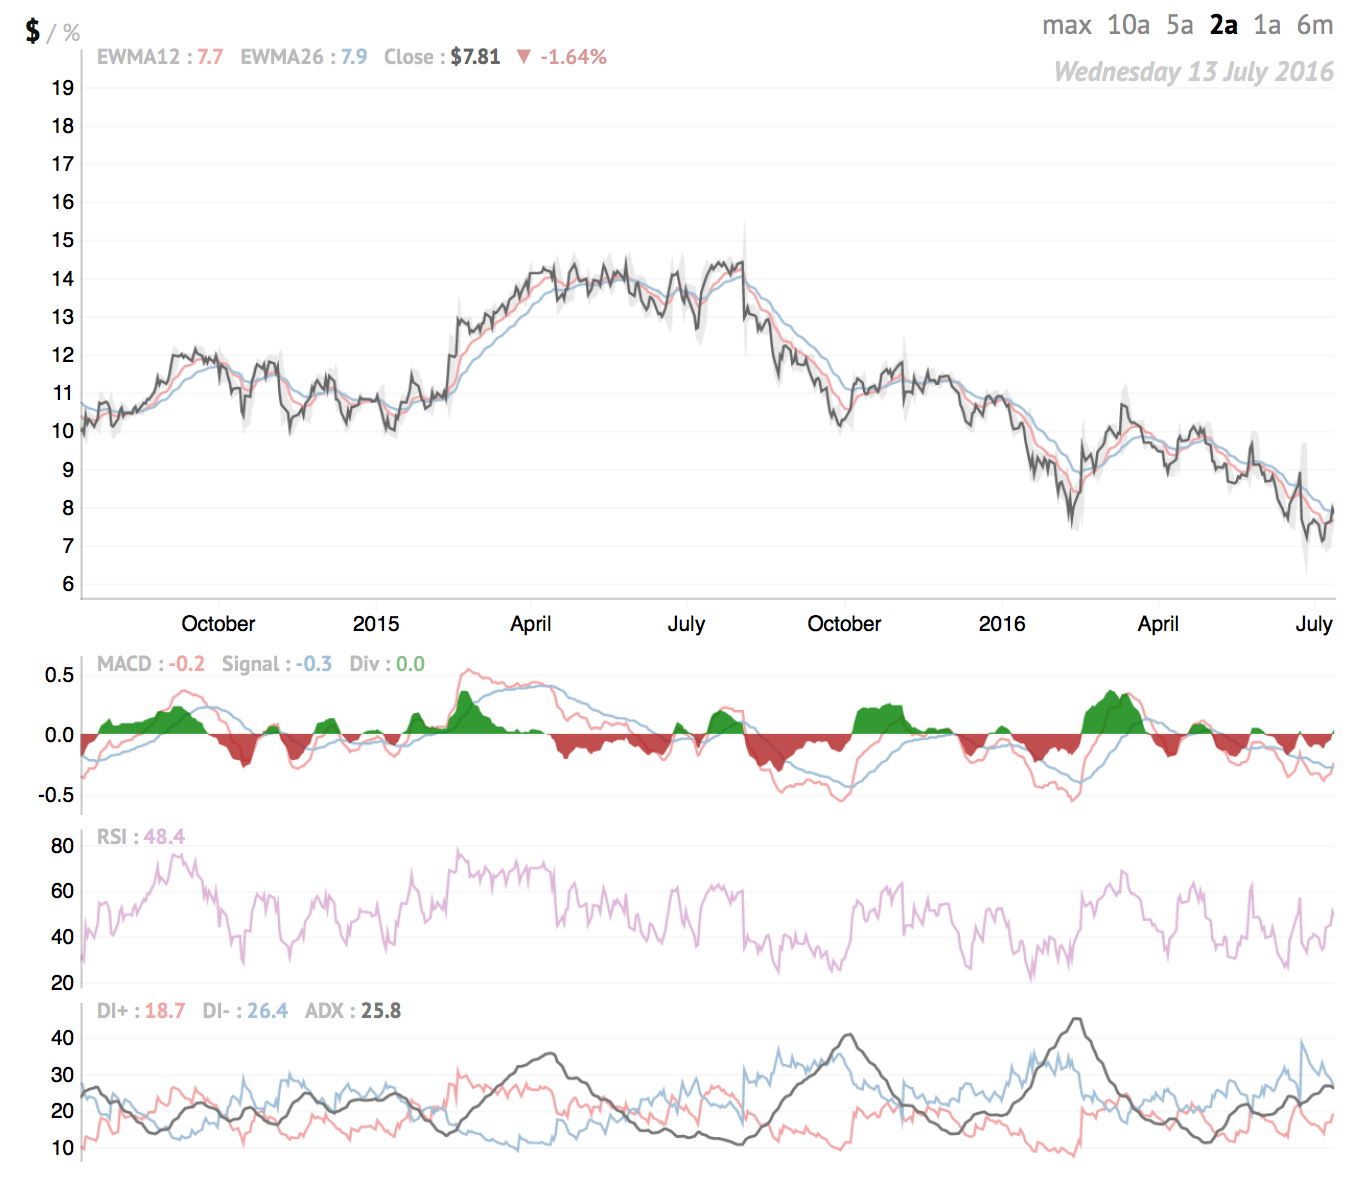
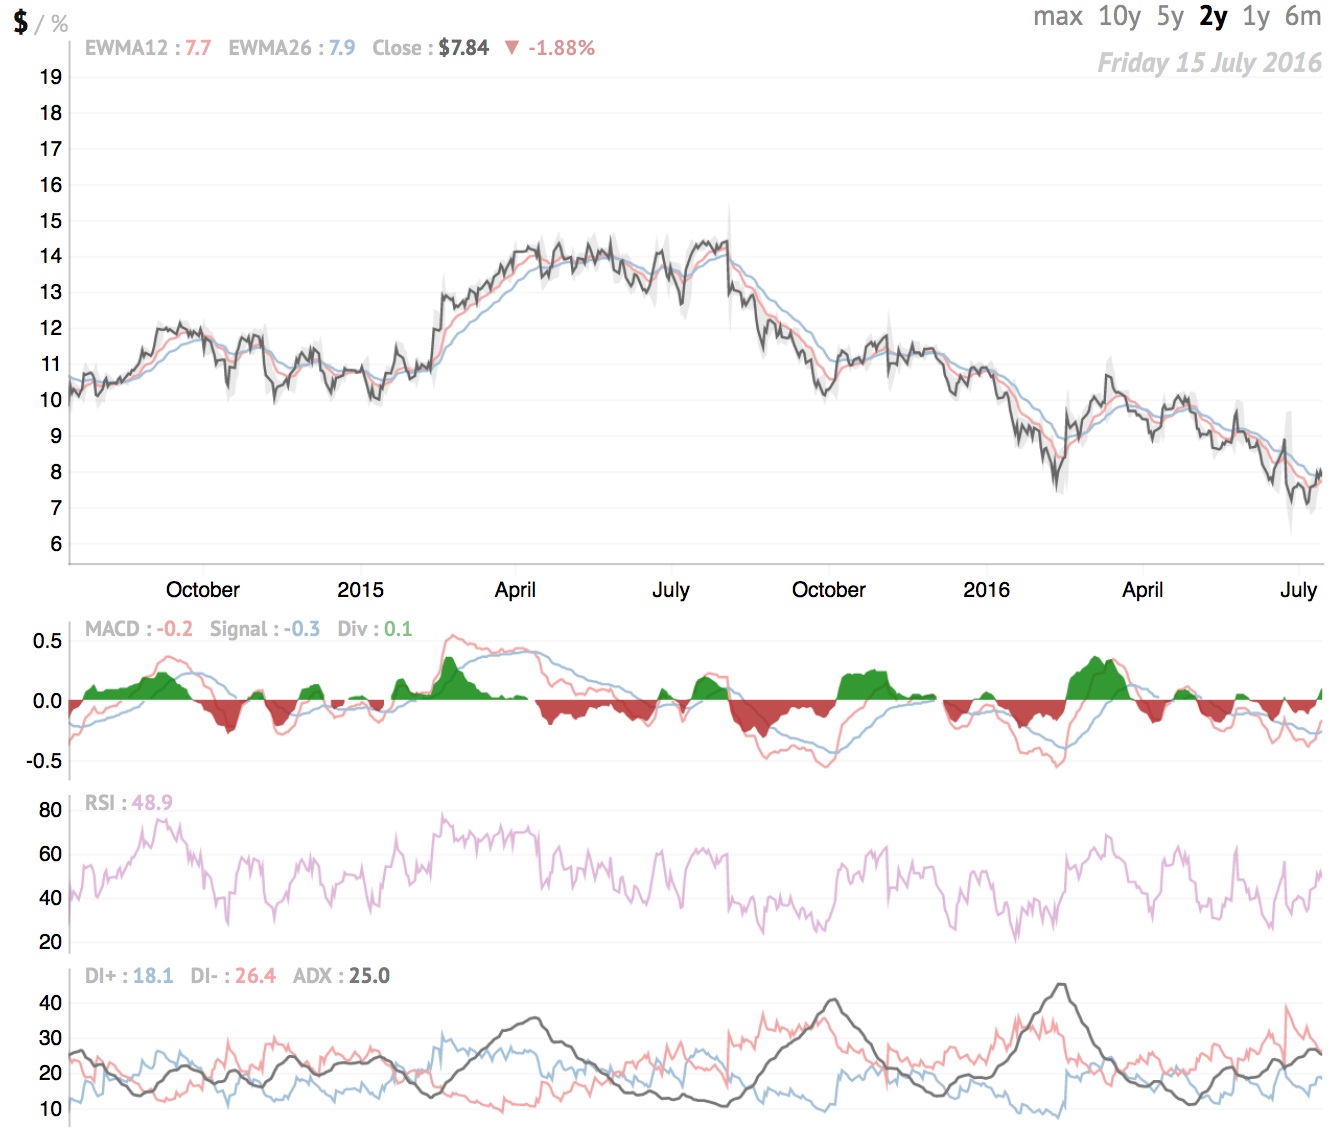
Translation of time selector

diff --git a/script.js b/script.js
@@ -174,7 +174,7 @@ function stockchart(data, time, div, param) {
 
     // Time intervals selector
 
-    var times = ["max", "10a", "5a", "2a", "1a", "6m"],
+    var times = ["max", "10y", "5y", "2y", "1y", "6m"],
         range = $.svg.append("text")
             .attr("x", $.width)
             .attr("y", - $.margin / 4)

diff --git a/readme.md b/readme.md
@@ -2,7 +2,7 @@
 
 This script aims to provide simple, lightweight, modulable and responsive **financial charts**. It allows to draw curves, areas or bands, on one or several charts, to show custom time intervals, and show values on mouse over.
 
-<a href="https://www.sylvaindurand.org"><img src="preview.png" width="680" height="600" /></a>
+<a href="https://www.sylvaindurand.org"><img src="preview.png" width="670" height="570" /></a>
 
 ## Usage
 
